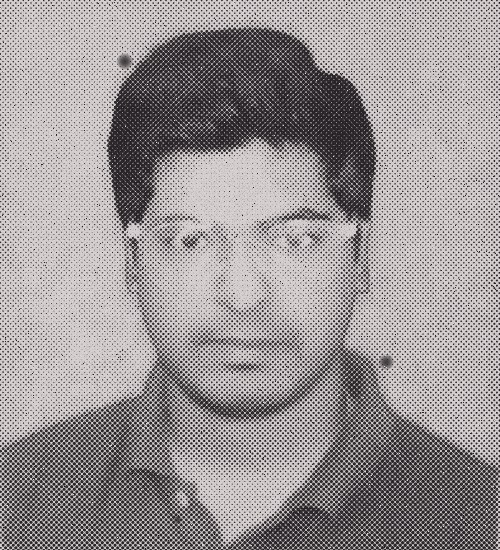
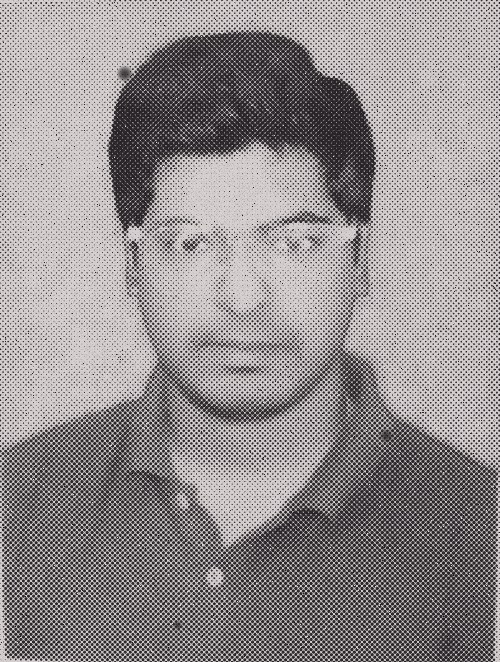
About: the 1st photo is the whole passport picture (no crop); its note moved down

diff --git a/index.html b/index.html
@@ -904,10 +904,10 @@
             <div class="abSticky" style="left: 44px; top: 140px; width: 230px; transform: rotate(-3deg)">I started by moving furniture around on a screen. Now I move buttons around on one.</div>
             <!-- big: sitting by the curtain, photocopied -->
             <figure class="abCopy" style="left: 388px; top: 112px; transform: rotate(3deg)">
-              <div class="tear"><img src="assets/about/copy-sit2.jpg?v=4" alt="Gandhar in glasses, a passport photo, as a grainy photocopy" width="246" height="271"></div>
+              <div class="tear"><img src="assets/about/copy-sit2.jpg?v=5" alt="Gandhar in glasses, a passport photo, as a grainy photocopy" width="220" height="291"></div>
             </figure>
             <span class="abTape" style="left: 476px; top: 100px; transform: rotate(-5deg)"></span>
-            <div class="abNote" style="left: 440px; top: 404px; width: 200px; transform: rotate(-2deg)">that’s me!</div>
+            <div class="abNote" style="left: 440px; top: 420px; width: 200px; transform: rotate(-2deg)">that’s me!</div>
             <!-- the story on a torn bit of lined paper -->
             <div class="abLined" style="left: 30px; top: 335px; width: 352px; font-size: 24px; transform: rotate(1.3deg)">
               Four years of interior design, a year of practice, and one career plot twist later, I found myself designing digital products instead of physical spaces. My first stop was Varuna Marine Services, where I was the entire design department of one. Then came Centralogic, a Master’s in UX, and a growing collection of problems I genuinely enjoy solving.
